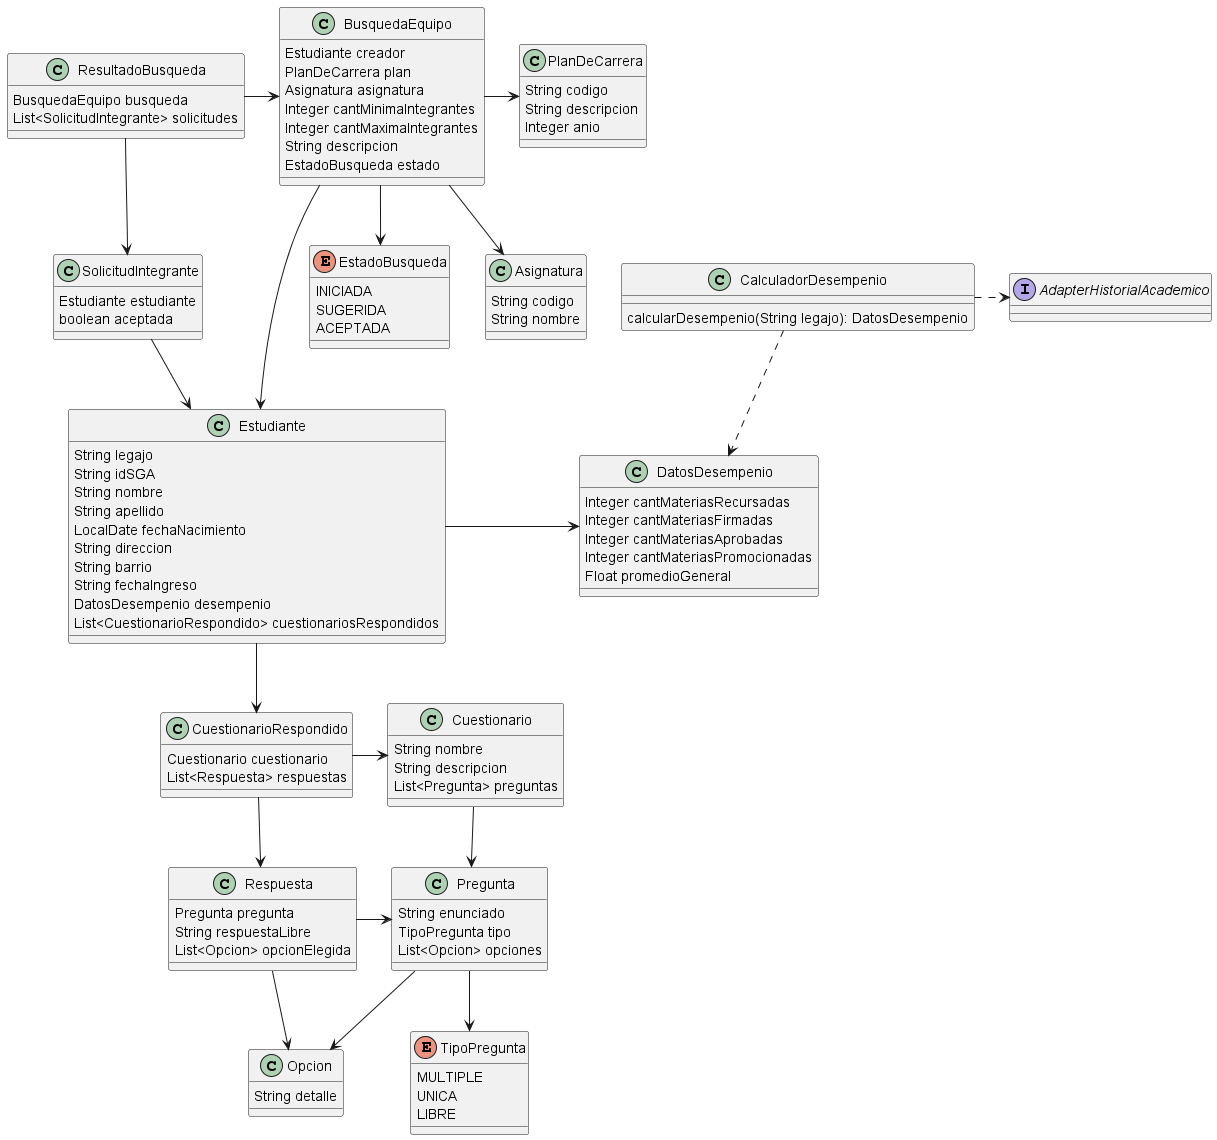
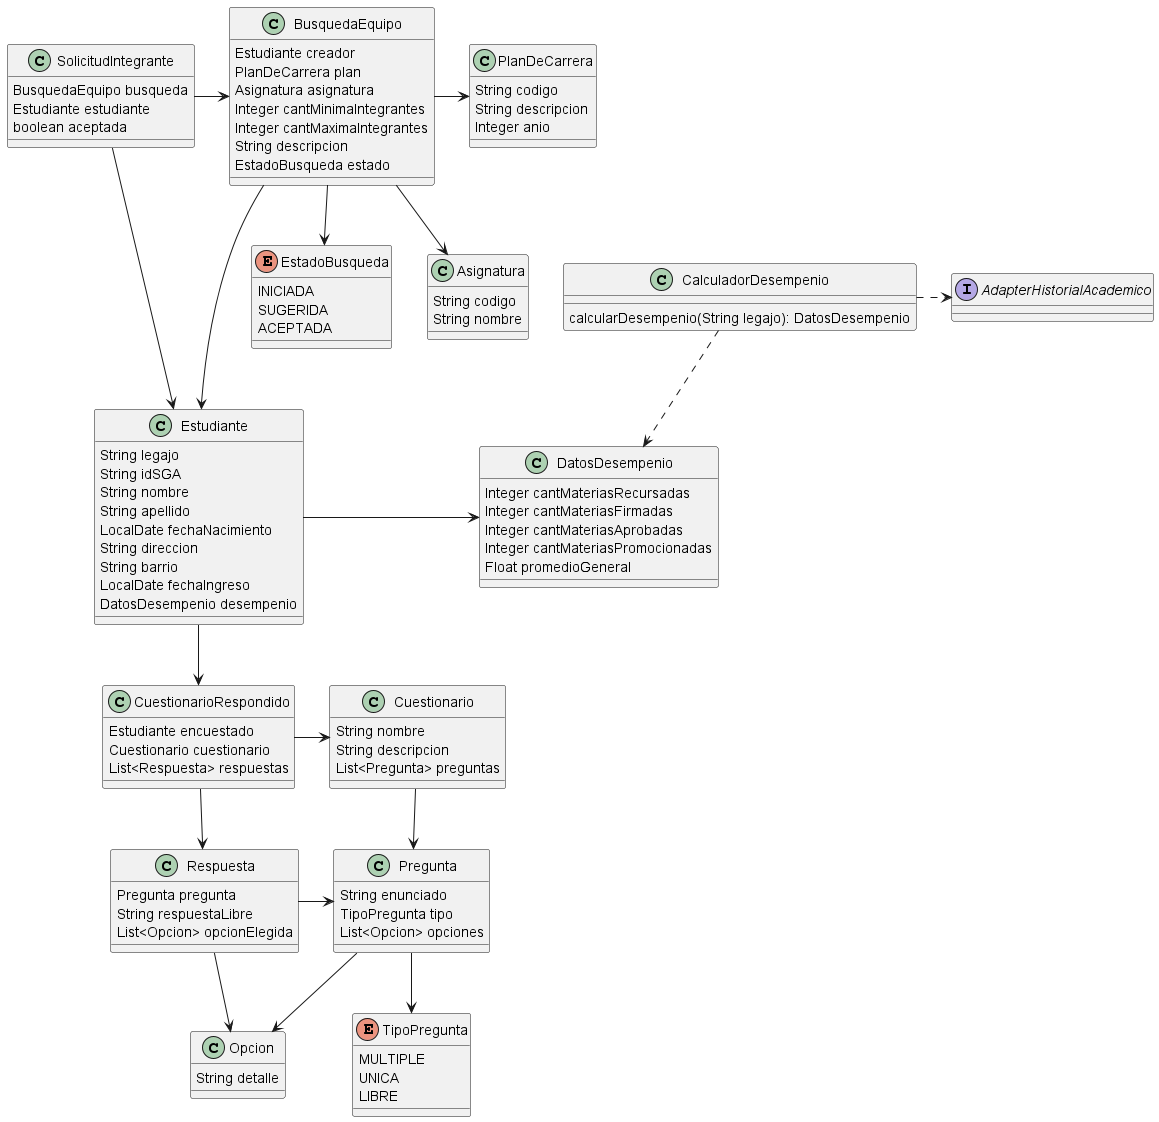
Agregar modelo de datos

diff --git a/[16-12-23] - EquiApp/Respuestas.md b/[16-12-23] - EquiApp/Respuestas.md
@@ -44,3 +44,14 @@ de forma que si es LIBRE, la respuesta se guarda en el atributo respuestaLibre y
 - El CalculadorDeDesempenio obtiene el HistorialAcademico por medio del AdapterHistorialAcademico
 que internamente realizaría la llamada al endpoint correspondiente del SGA
 
+
+# Persistencia
+### Modelo de datos
+![Modelo de datos](img_2.png)
+
+### Justificaciones
+
+- Se embebe la clase DatosDesempenio debido a que se forma una relación 1 a 1 donde seguramente no necesite obtener solo los datos sin el alumno
+- Sí se persisten el plan de carrera y la asignatura porque se debe poder enviar listas de éstas,
+para que el estudiante pueda elegir entre opciones existentes
+- Los enums EstadoBusqueda y TipoPregunta se almacenarán como strings en las clases que las contienen, con la anotación @Enumerated
